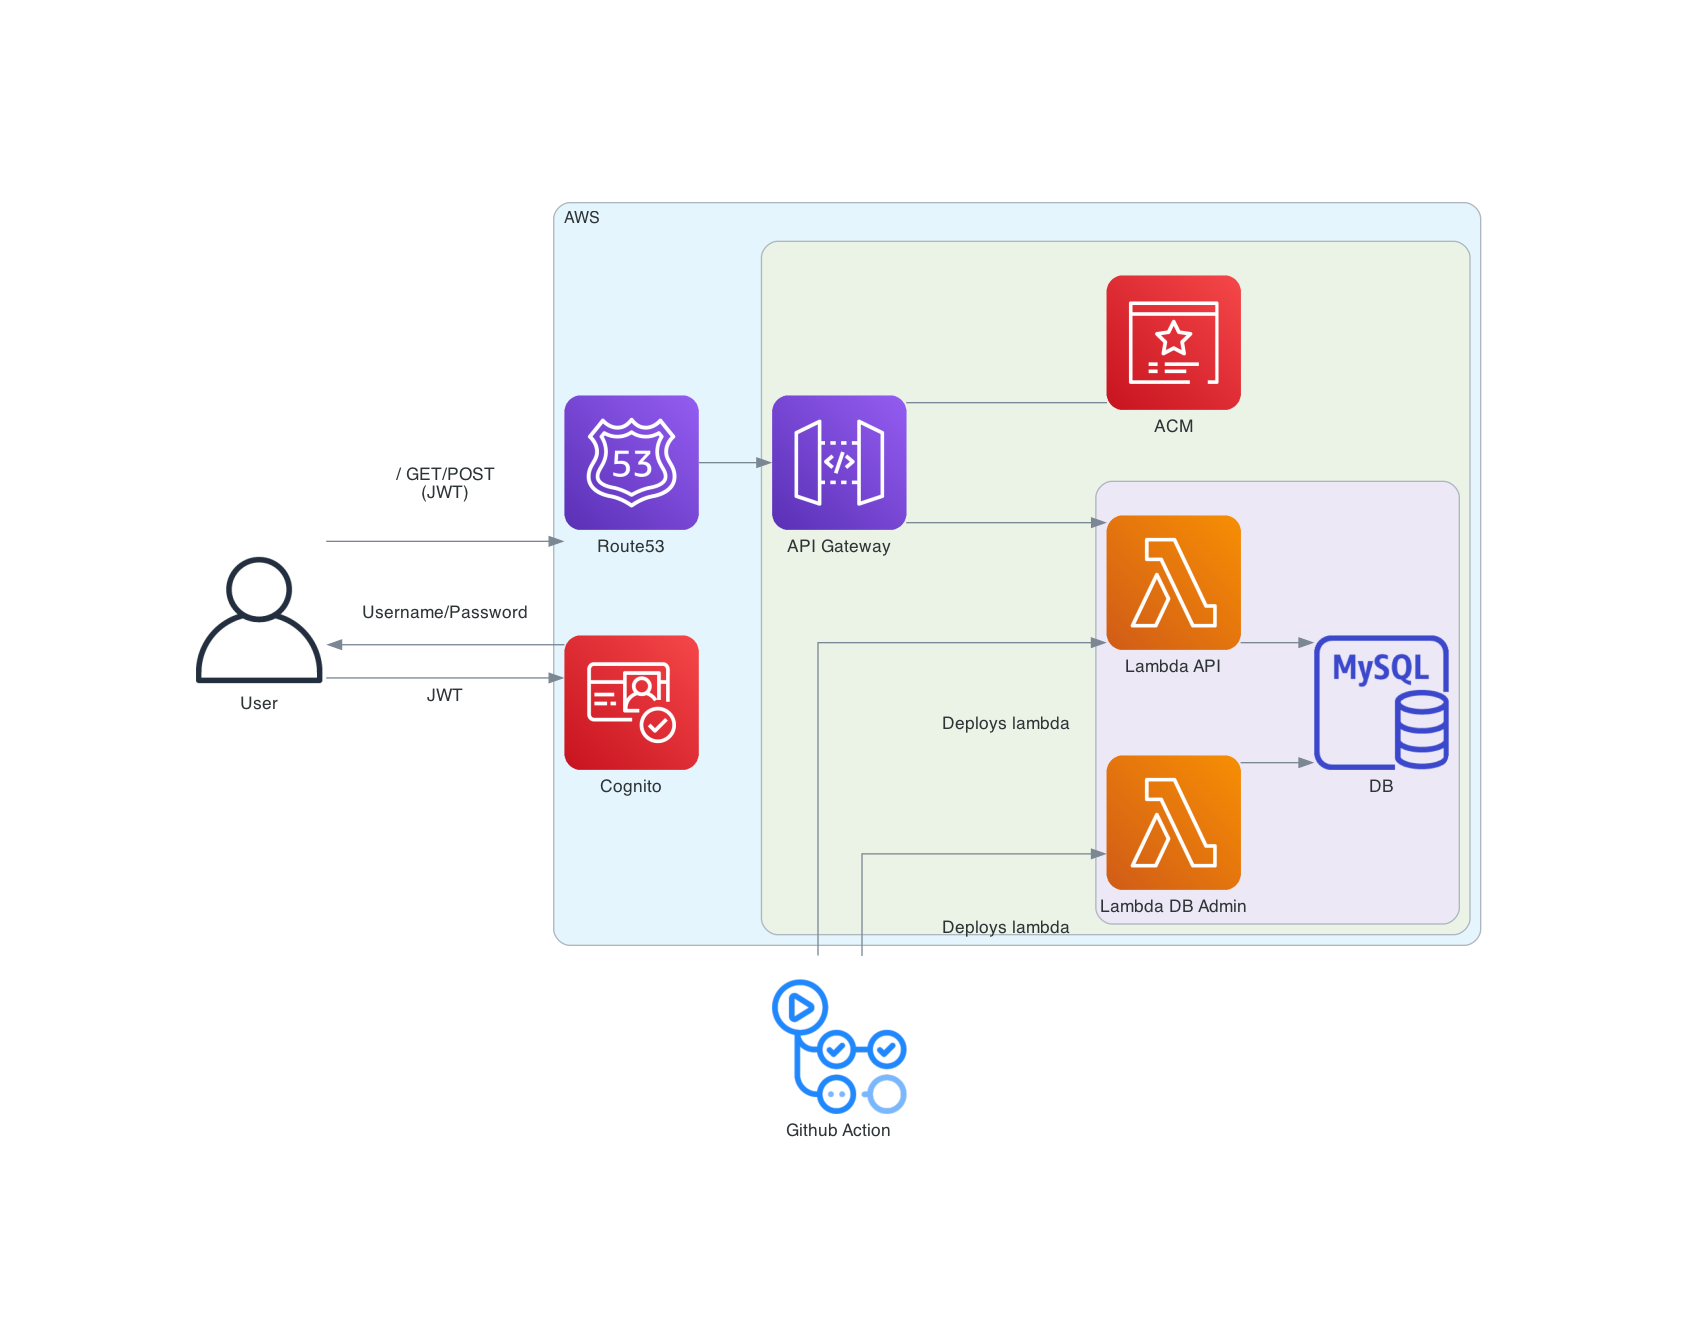
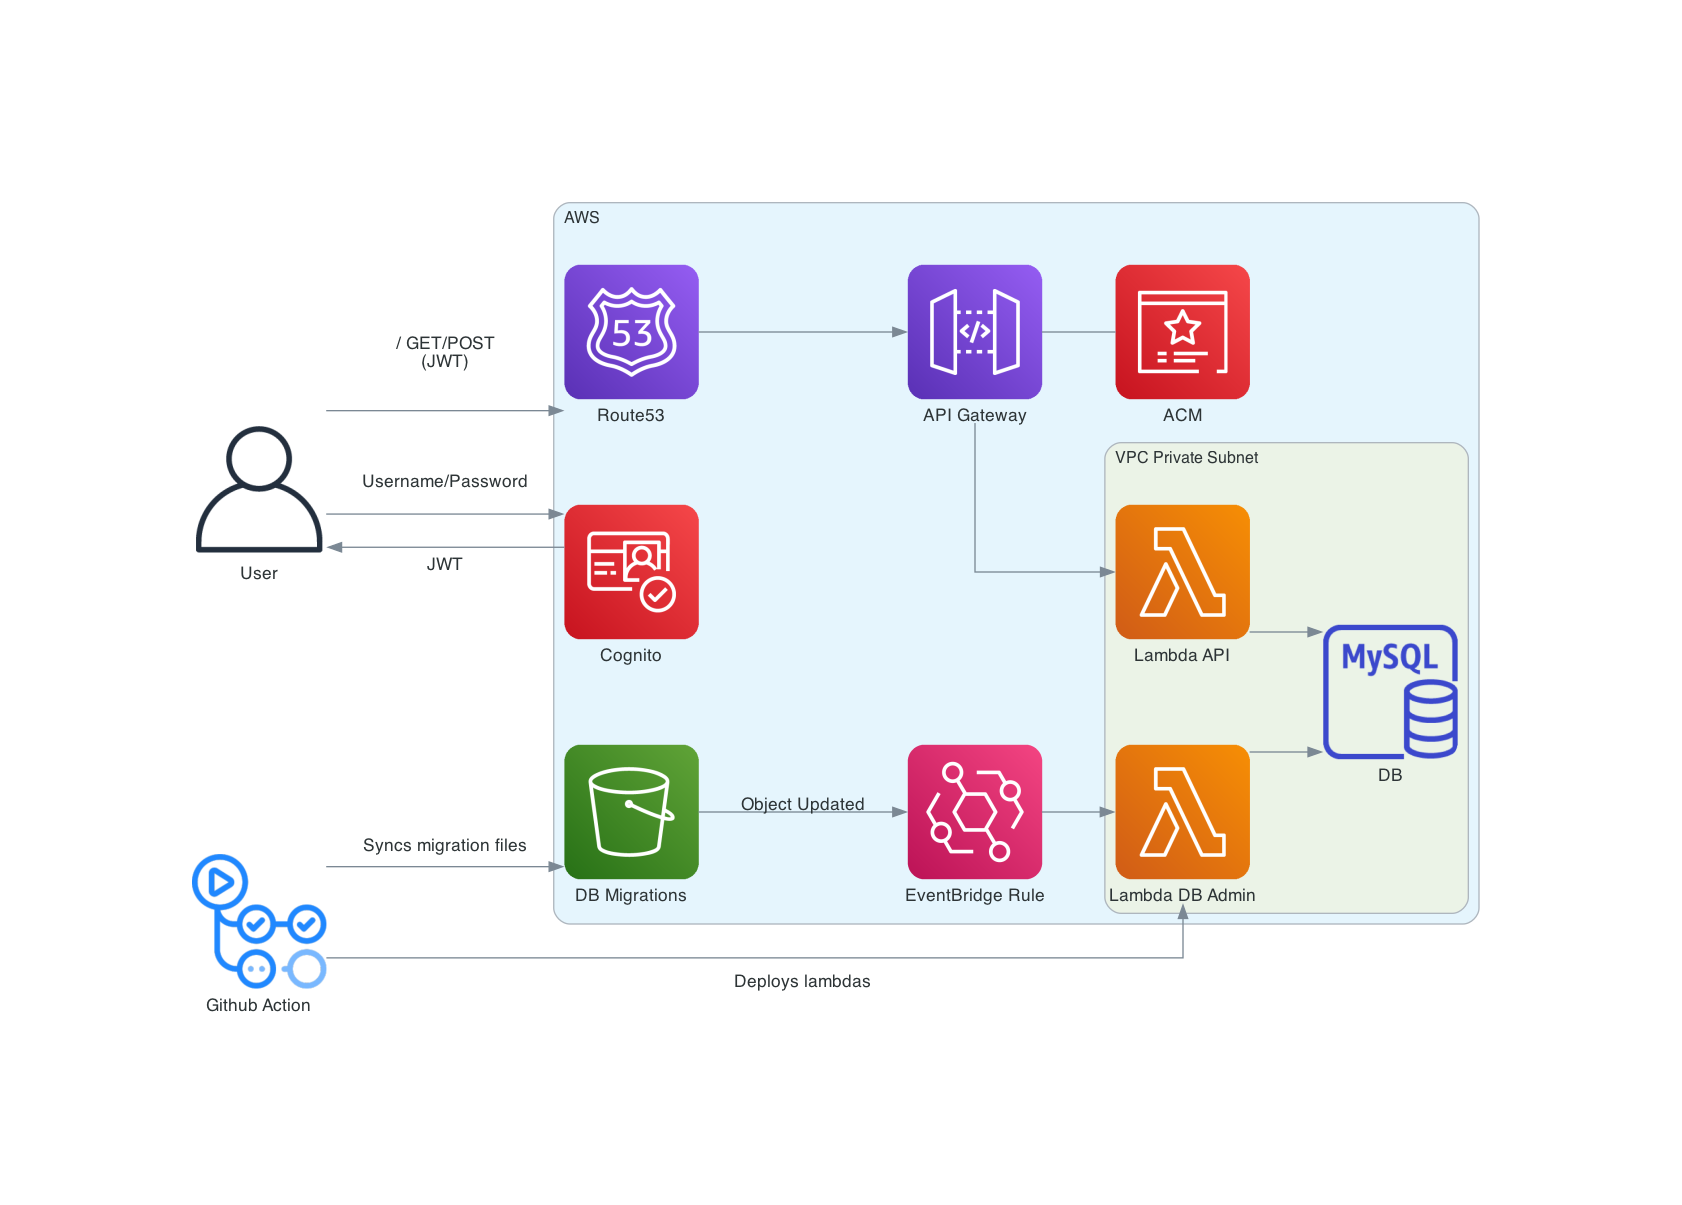
diagrams: PoC for architecture

Changed region(s): [[0.0927, 0.1535, 0.8966, 0.8598], [0.0927, 0.7062, 0.2164, 0.8598], [0.2473, 0.2763, 0.2782, 0.3071]]

diff --git a/diagrams/backend_diagram.py b/diagrams/backend_diagram.py
@@ -2,6 +2,8 @@ from diagrams import Cluster, Diagram, Edge
 from diagrams.aws.security import ACM, Cognito
 from diagrams.aws.general import User
 from diagrams.aws.compute import Lambda
+from diagrams.aws.storage import S3
+from diagrams.aws.integration import Eventbridge
 from diagrams.aws.database import RDSMysqlInstance
 from diagrams.aws.network import Route53, APIGateway
 from diagrams.onprem.ci import GithubActions
@@ -14,22 +16,25 @@ with Diagram("", filename="backend_diagram", outformat="png"):
         route_53 = Route53("Route53")
         cognito_userpool = Cognito("Cognito")
 
-        with Cluster(""):
-            api = APIGateway("API Gateway")
-            api - ACM("ACM")
+        s3 = S3("DB Migrations")
+        api = APIGateway("API Gateway")
+        api - ACM("ACM")
 
-            with Cluster(""):
-                lambda_api = Lambda("Lambda API")
-                lambda_db = Lambda("Lambda DB Admin")
+        with Cluster("VPC Private Subnet"):
+            lambda_api = Lambda("Lambda API")
+            lambda_db = Lambda("Lambda DB Admin")
 
-                rds = RDSMysqlInstance("DB")
-                lambda_api >> rds
-                lambda_db >> rds
+            rds = RDSMysqlInstance("DB")
+            lambda_api >> rds
+            lambda_db >> rds
 
-            api >> lambda_api
+        api >> lambda_api
+        s3 >> Edge(label="Object Updated") >> Eventbridge(
+            "EventBridge Rule") >> lambda_db
 
     user >> Edge(label="/ GET/POST\n(JWT)") >> route_53 >> api
     user >> Edge(label="Username/Password") >> cognito_userpool
     user << Edge(label="JWT") << cognito_userpool
 
-    github_action >> Edge(label="Deploys lambda") >> [lambda_api, lambda_db]
+    github_action >> Edge(label="Deploys lambdas") >> lambda_db
+    github_action >> Edge(label="Syncs migration files") >> s3

diff --git a/diagrams/README.md b/diagrams/README.md
@@ -26,5 +26,4 @@ pip install diagrams
 ```bash
 python backend_diagram.py
 python frontend_diagram.py
-python vpc_diagram.py
 ```
